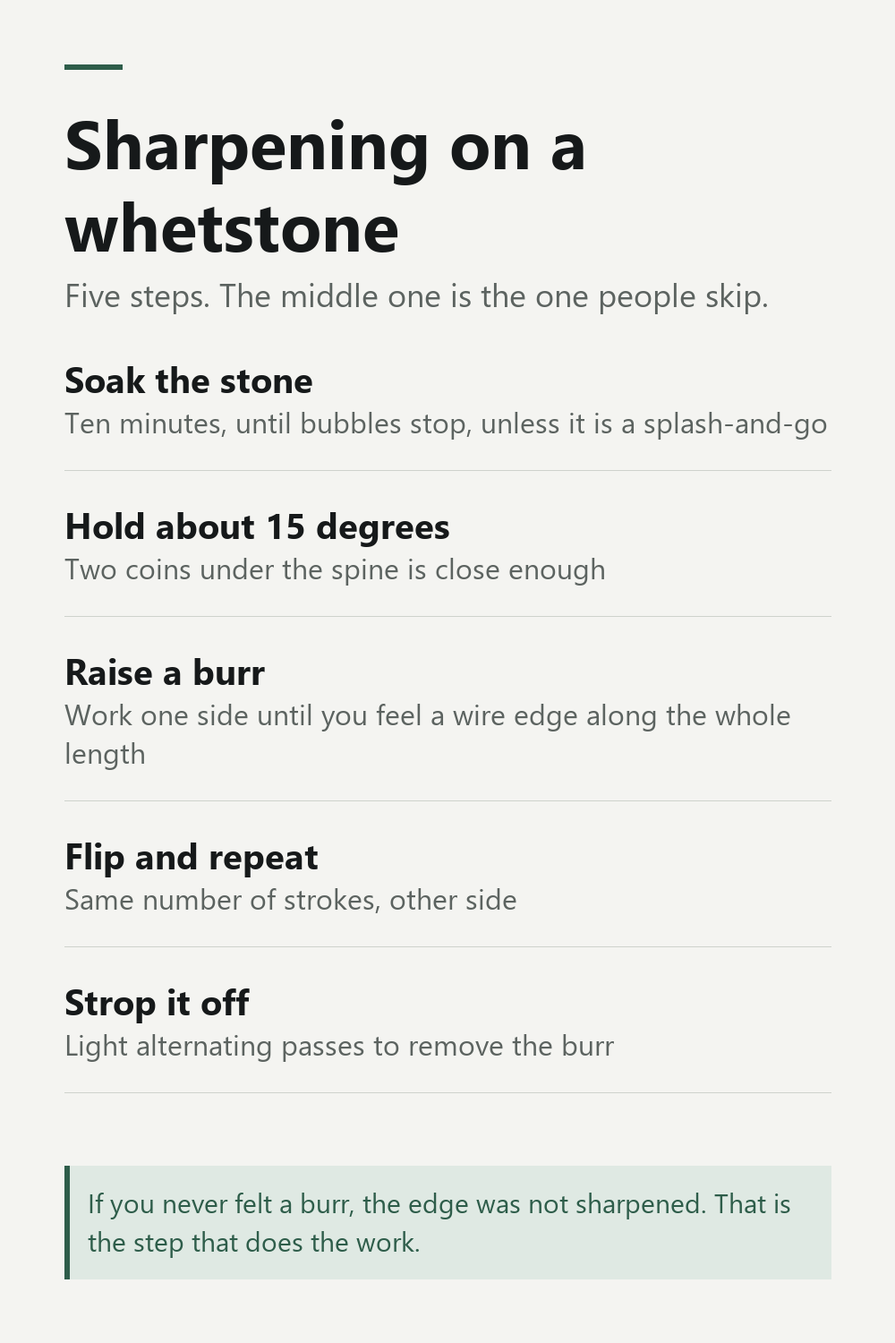
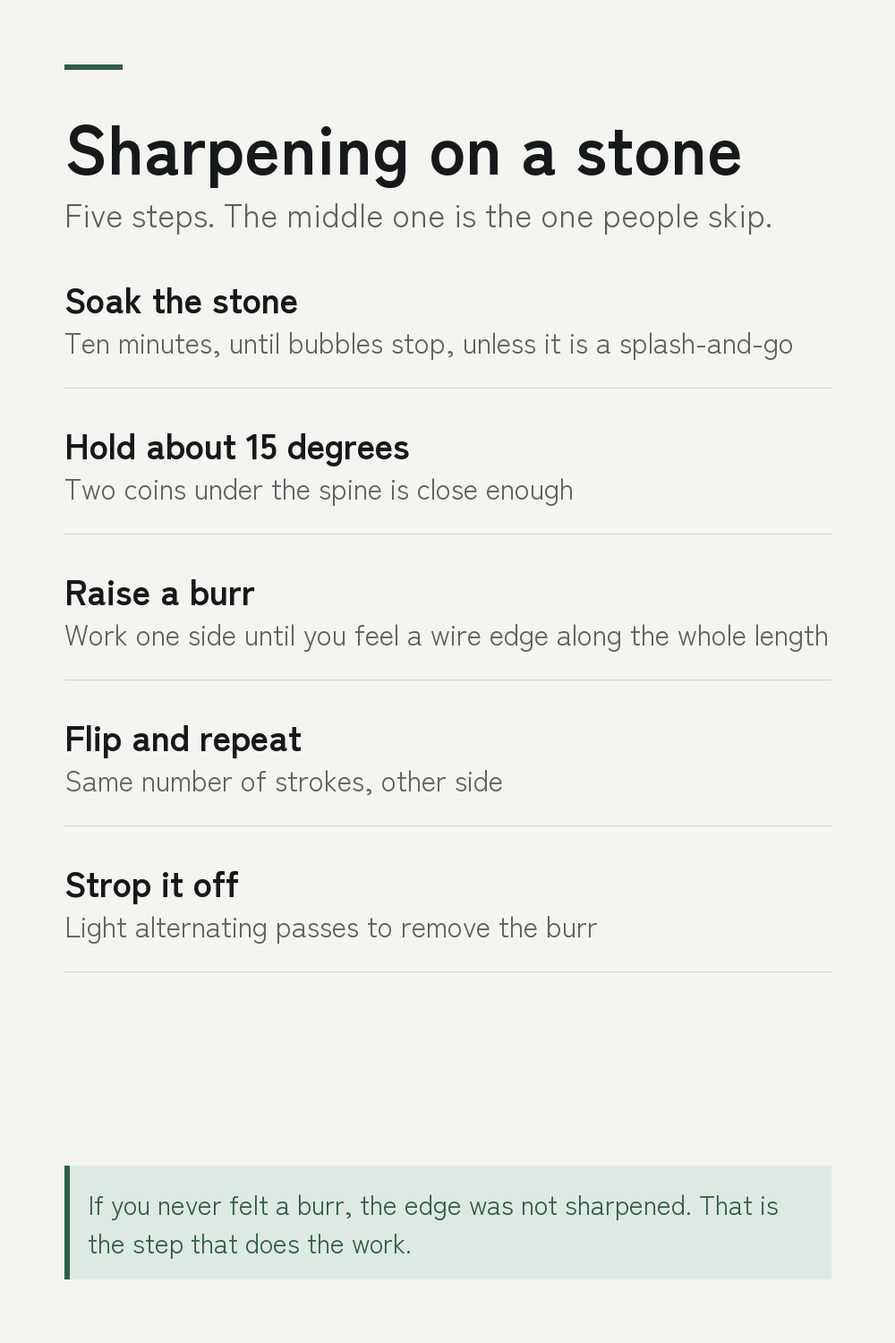
Photo cards for tea, new typefaces, shorter titles

diff --git a/knives/index.html b/knives/index.html
@@ -52,7 +52,7 @@ nav{margin:0 0 4px;font-size:14px}
 <p class="lead">A Japanese knife is described by its shape, its steel, how it was forged and where. Each of those changes how it cuts and how much care it needs. Here is what the words on the box mean.</p>
 </header>
 
-<h2 id="knife-shapes">Which Japanese knife shape?</h2>
+<h2 id="knife-shapes">Which knife shape?</h2>
 <p class="sub">Four shapes cover almost every home kitchen.</p>
 <div class="tw"><table><thead><tr><th>Santoku<span class="ja">三徳</span></th><th>Gyuto<span class="ja">牛刀</span></th><th>Nakiri<span class="ja">菜切</span></th><th>Petty<span class="ja">ペティ</span></th></tr></thead><tbody><tr><td>165-180mm</td><td>210-240mm</td><td>165-180mm</td><td>120-150mm</td></tr><tr><td>Flat-ish edge</td><td>Curved belly</td><td>Straight edge</td><td>Small</td></tr><tr><td>Push cuts</td><td>Rocking and slicing</td><td>Straight down</td><td>In-hand work</td></tr><tr><td>The default first knife</td><td>Japanese take on a chef knife</td><td>Vegetables only</td><td>The one you reach for most</td></tr></tbody></table></div>
 <p class="note">Santoku and gyuto overlap. Pick by how you cut, not by what is on sale.</p>
@@ -60,7 +60,7 @@ nav{margin:0 0 4px;font-size:14px}
 <p class="sub">Both are made in one place. The difference is what was added.</p>
 <div class="tw"><table><thead><tr><th>Shirogami<span class="ja">白紙</span></th><th>Aogami<span class="ja">青紙</span></th><th>Ginsan<span class="ja">銀紙三号</span></th><th>VG10</th></tr></thead><tbody><tr><td>Plain carbon steel</td><td>Chromium and tungsten added</td><td>Stainless</td><td>Stainless</td></tr><tr><td>Takes the keenest edge</td><td>Holds an edge longer</td><td>Close to carbon feel</td><td>Very common</td></tr><tr><td>Dulls sooner</td><td>Harder to sharpen</td><td>Low maintenance</td><td>Easy to live with</td></tr><tr><td>Rusts readily</td><td>Still rusts</td><td>Good compromise</td><td>Widely available</td></tr></tbody></table></div>
 <p class="note">All shirogami and aogami bar stock comes from Proterial&#x27;s Yasugi works in Shimane.</p>
-<h2 id="knife-regions">Where Japanese knives are made</h2>
+<h2 id="knife-regions">Where knives are made</h2>
 <p class="sub">The town on the box tells you how it was built.</p>
 <dl class="rows"><div><dt>Sakai 堺 (Osaka)</dt><dd>Forging, sharpening and handles done by separate specialists</dd></div><div><dt>Seki 関 (Gifu)</dt><dd>Large-scale production, stainless, consistent</dd></div><div><dt>Sanjo / Tsubame 三条・燕</dt><dd>Niigata metalworking district, many small smiths</dd></div><div><dt>Echizen 越前 (Fukui)</dt><dd>Hand-forged tradition, over 700 years</dd></div><div><dt>Tosa 土佐 (Kochi)</dt><dd>Free-forged, rustic finish, farm-tool roots</dd></div><div><dt>Miki 三木 (Hyogo)</dt><dd>Long-established tool and blade town</dd></div></dl>
 <p class="note">Sakai splits the work between craftsmen. That is why one knife carries several names.</p>
@@ -72,15 +72,15 @@ nav{margin:0 0 4px;font-size:14px}
 <p class="sub">Most people buy the wrong one first.</p>
 <dl class="rows"><div><dt>200-600 grit 荒砥</dt><dd>Repair chips, reset a bevel. Rarely needed</dd></div><div><dt>800-1200 grit 中砥</dt><dd>The one to buy first. Actual sharpening happens here</dd></div><div><dt>3000-6000 grit 仕上砥</dt><dd>Refines the edge. Optional for home use</dd></div><div><dt>8000 grit and up</dt><dd>Polishing. Diminishing returns for kitchen work</dd></div></dl>
 <p class="note">One 1,000-grit stone and a flattening plate will out-perform a four-stone set you never use.</p>
-<h2 id="knife-care">Carbon steel, without the rust</h2>
+<h2 id="knife-care">Carbon steel without rust</h2>
 <p class="sub">Five habits. That is the whole maintenance routine.</p>
 <dl class="rows"><div><dt>Wipe while you work</dt><dd>Acidic food marks carbon steel in minutes</dd></div><div><dt>Hand wash only</dt><dd>A dishwasher will ruin the edge and the handle</dd></div><div><dt>Dry immediately</dt><dd>Do not leave it on the rack</dd></div><div><dt>Wood or plastic board</dt><dd>Glass and stone destroy the edge</dd></div><div><dt>Let the patina form</dt><dd>The grey film is protective, not damage</dd></div></dl>
 <p class="note">A blue-black patina is what a used carbon knife is supposed to look like.</p>
-<h2 id="knife-first-buy">Buying your first Japanese knife</h2>
+<h2 id="knife-first-buy">Your first Japanese knife</h2>
 <p class="sub">Five decisions, in the order they actually matter.</p>
 <dl class="rows"><div><dt>Shape</dt><dd>Santoku or gyuto. Everything else is a second knife</dd></div><div><dt>Length</dt><dd>180mm santoku or 210mm gyuto suits most home kitchens</dd></div><div><dt>Steel</dt><dd>Stainless unless you want to wipe the blade as you cook</dd></div><div><dt>Bevel</dt><dd>Double bevel. Single bevel is a specialist tool</dd></div><div><dt>Handle</dt><dd>Japanese handles are lighter and easy to replace</dd></div></dl>
 <p class="note">Spending more on a shape you will not use is the most common first mistake.</p>
-<h2 id="knife-handles">Japanese handle or Western handle?</h2>
+<h2 id="knife-handles">Wa handle or yo handle?</h2>
 <p class="sub">This changes the balance more than the price does.</p>
 <div class="tw"><table><thead><tr><th>Wa handle<span class="ja">和柄</span></th><th>Yo handle<span class="ja">洋柄</span></th></tr></thead><tbody><tr><td>Wood, friction fit</td><td>Riveted to a full tang</td></tr><tr><td>Light, blade-forward</td><td>Heavier, balanced at the bolster</td></tr><tr><td>Octagonal or D-shaped</td><td>Contoured</td></tr><tr><td>Replaceable at home</td><td>Not user-replaceable</td></tr></tbody></table></div>
 <p class="note">A wa handle can be swapped when it wears out. That is why old knives keep working.</p>
@@ -88,7 +88,7 @@ nav{margin:0 0 4px;font-size:14px}
 <p class="sub">Three words on a knife box that describe how it was built.</p>
 <div class="tw"><table><thead><tr><th>Kasumi<span class="ja">霞</span></th><th>San-mai<span class="ja">三枚</span></th><th>Honyaki<span class="ja">本焼</span></th></tr></thead><tbody><tr><td>Hard steel forged to soft iron</td><td>Hard core between two soft sides</td><td>One steel throughout</td></tr><tr><td>Two layers</td><td>Three layers</td><td>Differentially hardened</td></tr><tr><td>Easier to sharpen</td><td>Core protected</td><td>Hard, brittle, costly</td></tr><tr><td>The common construction</td><td>Most stainless clad knives</td><td>For specialists</td></tr></tbody></table></div>
 <p class="note">Damascus is a surface pattern on a clad blade. It describes the look, not the performance.</p>
-<h2 id="knife-sharpen-steps">Sharpening on a whetstone</h2>
+<h2 id="knife-sharpen-steps">Sharpening on a stone</h2>
 <p class="sub">Five steps. The middle one is the one people skip.</p>
 <dl class="rows"><div><dt>Soak the stone</dt><dd>Ten minutes, until bubbles stop, unless it is a splash-and-go</dd></div><div><dt>Hold about 15 degrees</dt><dd>Two coins under the spine is close enough</dd></div><div><dt>Raise a burr</dt><dd>Work one side until you feel a wire edge along the whole length</dd></div><div><dt>Flip and repeat</dt><dd>Same number of strokes, other side</dd></div><div><dt>Strop it off</dt><dd>Light alternating passes to remove the burr</dd></div></dl>
 <p class="note">If you never felt a burr, the edge was not sharpened. That is the step that does the work.</p>

diff --git a/tea/index.html b/tea/index.html
@@ -80,23 +80,23 @@ nav{margin:0 0 4px;font-size:14px}
 <p class="sub">There is no legal grading system. These words still mean something.</p>
 <dl class="rows"><div><dt>Ceremonial grade</dt><dd>Marketing term, not a standard</dd></div><div><dt>Culinary grade</dt><dd>Also marketing. Usually later harvest</dd></div><div><dt>First harvest 一番茶</dt><dd>A real, checkable claim</dd></div><div><dt>Stone-ground 石臼挽き</dt><dd>Slow, low heat. A real distinction</dd></div><div><dt>Single cultivar</dt><dd>Uncommon and deliberate</dd></div><div><dt>Producer named</dt><dd>The most useful signal on the bag</dd></div></dl>
 <p class="note">Ask what harvest and who ground it. Grade names are not regulated.</p>
-<h2 id="tea-first-buy">Buying Japanese tea for the first time</h2>
+<h2 id="tea-first-buy">Buying Japanese tea</h2>
 <p class="sub">Five things on the bag that actually matter.</p>
 <dl class="rows"><div><dt>Harvest year</dt><dd>Green tea does not improve with age. Look for the most recent crop</dd></div><div><dt>Region</dt><dd>Named region means someone chose it. Blends often say nothing</dd></div><div><dt>Type</dt><dd>Sencha for everyday, kabusecha to try something sweeter</dd></div><div><dt>Steaming</dt><dd>Fukamushi is more forgiving if you brew casually</dd></div><div><dt>Size</dt><dd>Buy small. Once opened it fades in weeks, not months</dd></div></dl>
 <p class="note">The most common mistake is buying too much of one tea and drinking it slowly.</p>
-<h2 id="tea-storage">How to keep green tea fresh</h2>
+<h2 id="tea-storage">Keeping green tea fresh</h2>
 <p class="sub">Four things spoil it, and one of them is your fridge.</p>
 <dl class="rows"><div><dt>Air</dt><dd>Oxidation flattens the aroma. Keep it sealed and squeeze the air out</dd></div><div><dt>Light</dt><dd>Use an opaque container, not a clear jar on the counter</dd></div><div><dt>Heat</dt><dd>Store cool, away from the hob</dd></div><div><dt>Smell</dt><dd>Tea absorbs odours. Never keep it next to coffee or spices</dd></div><div><dt>The fridge</dt><dd>Only unopened, and let it reach room temperature before opening</dd></div></dl>
 <p class="note">Condensation on cold leaves is what ruins refrigerated tea, not the cold itself.</p>
-<h2 id="tea-ratio">How much tea, how much water</h2>
+<h2 id="tea-ratio">Tea to water ratios</h2>
 <p class="sub">Rough starting points, then adjust to taste.</p>
 <dl class="rows"><div><dt>Sencha 煎茶</dt><dd>About 5g to 200ml, around 60 seconds</dd></div><div><dt>Gyokuro 玉露</dt><dd>About 10g to 100ml, around 2 minutes, cooler water</dd></div><div><dt>Matcha 抹茶</dt><dd>About 2g to 70ml, whisked, not steeped</dd></div><div><dt>Hojicha ほうじ茶</dt><dd>About 6g to 300ml, around 30 seconds</dd></div><div><dt>Second steep</dt><dd>Shorter, not longer. The leaf is already open</dd></div></dl>
 <p class="note">Japanese tea is brewed short and strong, then steeped again. It is not a one-cup leaf.</p>
-<h2 id="tea-roasted">The three easy Japanese teas</h2>
+<h2 id="tea-roasted">Three easy Japanese teas</h2>
 <p class="sub">Low caffeine, forgiving, hard to brew badly.</p>
 <div class="tw"><table><thead><tr><th>Hojicha<span class="ja">ほうじ茶</span></th><th>Genmaicha<span class="ja">玄米茶</span></th><th>Bancha<span class="ja">番茶</span></th></tr></thead><tbody><tr><td>Roasted leaf</td><td>Tea with roasted rice</td><td>Later, coarser leaf</td></tr><tr><td>Toasty, caramel</td><td>Savoury, nutty</td><td>Mild, plain</td></tr><tr><td>Low caffeine</td><td>Diluted caffeine</td><td>Low caffeine</td></tr><tr><td>Good after dinner</td><td>Good with food</td><td>Everyday drinking</td></tr></tbody></table></div>
 <p class="note">All three take boiling water. If you have ruined sencha before, start here.</p>
-<h2 id="tea-caffeine">Which Japanese tea has the most caffeine</h2>
+<h2 id="tea-caffeine">Caffeine, tea by tea</h2>
 <p class="sub">Shading raises it. Roasting lowers it.</p>
 <dl class="rows"><div><dt>Matcha 抹茶</dt><dd>Highest — you drink the whole leaf, not an infusion</dd></div><div><dt>Gyokuro 玉露</dt><dd>High — shading increases caffeine along with amino acids</dd></div><div><dt>Sencha 煎茶</dt><dd>Moderate — the everyday middle</dd></div><div><dt>Bancha 番茶</dt><dd>Lower — older, coarser leaf</dd></div><div><dt>Hojicha ほうじ茶</dt><dd>Lowest — roasting drives caffeine off</dd></div></dl>
 <p class="note">Cooler water extracts less caffeine as well as less bitterness. Two problems, one fix.</p>

diff --git a/tea/tea-roasted.html b/tea/tea-roasted.html
@@ -4,7 +4,7 @@
 <meta charset="utf-8">
 <meta name="p:domain_verify" content="e2b67e06049e9165b76feeefe1a7c023"/>
 <meta name="viewport" content="width=device-width,initial-scale=1">
-<title>The three easy Japanese teas - Japan Kitchen Notes</title>
+<title>Three easy Japanese teas - Japan Kitchen Notes</title>
 <meta name="description" content="Low caffeine, forgiving, hard to brew badly.">
 <style>
 :root{--bg:#F4F4F1;--ink:#16191A;--mid:#5C6360;--soft:#8C938F;--rule:#CED2CC;
@@ -48,11 +48,11 @@ nav{margin:0 0 4px;font-size:14px}
 <body><div class="wrap">
 <header>
 <nav><a href="../">Japan Kitchen Notes</a></nav>
-<h1>The three easy Japanese teas</h1>
+<h1>Three easy Japanese teas</h1>
 <p class="lead">Low caffeine, forgiving, hard to brew badly.</p>
 </header>
 <div class="buy"><h3>Where to buy</h3><ul><li><a href="https://elevatebrandsopcollc.sjv.io/c/7692800/2847136/28635" rel="nofollow sponsored noopener">Encha - organic single-origin Uji matcha</a> - first-harvest, stone-ground, direct from the farm in Uji. 10% off site wide with code EN10OFF</li></ul><p style='margin:10px 0 0;font-size:14px'>These are affiliate links. If you buy through one, a commission may be paid at no extra cost to you.</p></div>
-<h2 id="tea-roasted">The three easy Japanese teas</h2>
+<h2 id="tea-roasted">Three easy Japanese teas</h2>
 <p class="sub">Low caffeine, forgiving, hard to brew badly.</p>
 <div class="tw"><table><thead><tr><th>Hojicha<span class="ja">ほうじ茶</span></th><th>Genmaicha<span class="ja">玄米茶</span></th><th>Bancha<span class="ja">番茶</span></th></tr></thead><tbody><tr><td>Roasted leaf</td><td>Tea with roasted rice</td><td>Later, coarser leaf</td></tr><tr><td>Toasty, caramel</td><td>Savoury, nutty</td><td>Mild, plain</td></tr><tr><td>Low caffeine</td><td>Diluted caffeine</td><td>Low caffeine</td></tr><tr><td>Good after dinner</td><td>Good with food</td><td>Everyday drinking</td></tr></tbody></table></div>
 <p class="note">All three take boiling water. If you have ruined sencha before, start here.</p>

diff --git a/tea/tea-first-buy.html b/tea/tea-first-buy.html
@@ -4,7 +4,7 @@
 <meta charset="utf-8">
 <meta name="p:domain_verify" content="e2b67e06049e9165b76feeefe1a7c023"/>
 <meta name="viewport" content="width=device-width,initial-scale=1">
-<title>Buying Japanese tea for the first time - Japan Kitchen Notes</title>
+<title>Buying Japanese tea - Japan Kitchen Notes</title>
 <meta name="description" content="Five things on the bag that actually matter.">
 <style>
 :root{--bg:#F4F4F1;--ink:#16191A;--mid:#5C6360;--soft:#8C938F;--rule:#CED2CC;
@@ -48,11 +48,11 @@ nav{margin:0 0 4px;font-size:14px}
 <body><div class="wrap">
 <header>
 <nav><a href="../">Japan Kitchen Notes</a></nav>
-<h1>Buying Japanese tea for the first time</h1>
+<h1>Buying Japanese tea</h1>
 <p class="lead">Five things on the bag that actually matter.</p>
 </header>
 <div class="buy"><h3>Where to buy</h3><ul><li><a href="https://elevatebrandsopcollc.sjv.io/c/7692800/2847136/28635" rel="nofollow sponsored noopener">Encha - organic single-origin Uji matcha</a> - first-harvest, stone-ground, direct from the farm in Uji. 10% off site wide with code EN10OFF</li></ul><p style='margin:10px 0 0;font-size:14px'>These are affiliate links. If you buy through one, a commission may be paid at no extra cost to you.</p></div>
-<h2 id="tea-first-buy">Buying Japanese tea for the first time</h2>
+<h2 id="tea-first-buy">Buying Japanese tea</h2>
 <p class="sub">Five things on the bag that actually matter.</p>
 <dl class="rows"><div><dt>Harvest year</dt><dd>Green tea does not improve with age. Look for the most recent crop</dd></div><div><dt>Region</dt><dd>Named region means someone chose it. Blends often say nothing</dd></div><div><dt>Type</dt><dd>Sencha for everyday, kabusecha to try something sweeter</dd></div><div><dt>Steaming</dt><dd>Fukamushi is more forgiving if you brew casually</dd></div><div><dt>Size</dt><dd>Buy small. Once opened it fades in weeks, not months</dd></div></dl>
 <p class="note">The most common mistake is buying too much of one tea and drinking it slowly.</p>

diff --git a/tea/tea-storage.html b/tea/tea-storage.html
@@ -4,7 +4,7 @@
 <meta charset="utf-8">
 <meta name="p:domain_verify" content="e2b67e06049e9165b76feeefe1a7c023"/>
 <meta name="viewport" content="width=device-width,initial-scale=1">
-<title>How to keep green tea fresh - Japan Kitchen Notes</title>
+<title>Keeping green tea fresh - Japan Kitchen Notes</title>
 <meta name="description" content="Four things spoil it, and one of them is your fridge.">
 <style>
 :root{--bg:#F4F4F1;--ink:#16191A;--mid:#5C6360;--soft:#8C938F;--rule:#CED2CC;
@@ -48,11 +48,11 @@ nav{margin:0 0 4px;font-size:14px}
 <body><div class="wrap">
 <header>
 <nav><a href="../">Japan Kitchen Notes</a></nav>
-<h1>How to keep green tea fresh</h1>
+<h1>Keeping green tea fresh</h1>
 <p class="lead">Four things spoil it, and one of them is your fridge.</p>
 </header>
 <div class="buy"><h3>Where to buy</h3><ul><li><a href="https://elevatebrandsopcollc.sjv.io/c/7692800/2847136/28635" rel="nofollow sponsored noopener">Encha - organic single-origin Uji matcha</a> - first-harvest, stone-ground, direct from the farm in Uji. 10% off site wide with code EN10OFF</li></ul><p style='margin:10px 0 0;font-size:14px'>These are affiliate links. If you buy through one, a commission may be paid at no extra cost to you.</p></div>
-<h2 id="tea-storage">How to keep green tea fresh</h2>
+<h2 id="tea-storage">Keeping green tea fresh</h2>
 <p class="sub">Four things spoil it, and one of them is your fridge.</p>
 <dl class="rows"><div><dt>Air</dt><dd>Oxidation flattens the aroma. Keep it sealed and squeeze the air out</dd></div><div><dt>Light</dt><dd>Use an opaque container, not a clear jar on the counter</dd></div><div><dt>Heat</dt><dd>Store cool, away from the hob</dd></div><div><dt>Smell</dt><dd>Tea absorbs odours. Never keep it next to coffee or spices</dd></div><div><dt>The fridge</dt><dd>Only unopened, and let it reach room temperature before opening</dd></div></dl>
 <p class="note">Condensation on cold leaves is what ruins refrigerated tea, not the cold itself.</p>

diff --git a/tea/tea-caffeine.html b/tea/tea-caffeine.html
@@ -4,7 +4,7 @@
 <meta charset="utf-8">
 <meta name="p:domain_verify" content="e2b67e06049e9165b76feeefe1a7c023"/>
 <meta name="viewport" content="width=device-width,initial-scale=1">
-<title>Which Japanese tea has the most caffeine - Japan Kitchen Notes</title>
+<title>Caffeine, tea by tea - Japan Kitchen Notes</title>
 <meta name="description" content="Shading raises it. Roasting lowers it.">
 <style>
 :root{--bg:#F4F4F1;--ink:#16191A;--mid:#5C6360;--soft:#8C938F;--rule:#CED2CC;
@@ -48,11 +48,11 @@ nav{margin:0 0 4px;font-size:14px}
 <body><div class="wrap">
 <header>
 <nav><a href="../">Japan Kitchen Notes</a></nav>
-<h1>Which Japanese tea has the most caffeine</h1>
+<h1>Caffeine, tea by tea</h1>
 <p class="lead">Shading raises it. Roasting lowers it.</p>
 </header>
 <div class="buy"><h3>Where to buy</h3><ul><li><a href="https://elevatebrandsopcollc.sjv.io/c/7692800/2847136/28635" rel="nofollow sponsored noopener">Encha - organic single-origin Uji matcha</a> - first-harvest, stone-ground, direct from the farm in Uji. 10% off site wide with code EN10OFF</li></ul><p style='margin:10px 0 0;font-size:14px'>These are affiliate links. If you buy through one, a commission may be paid at no extra cost to you.</p></div>
-<h2 id="tea-caffeine">Which Japanese tea has the most caffeine</h2>
+<h2 id="tea-caffeine">Caffeine, tea by tea</h2>
 <p class="sub">Shading raises it. Roasting lowers it.</p>
 <dl class="rows"><div><dt>Matcha 抹茶</dt><dd>Highest — you drink the whole leaf, not an infusion</dd></div><div><dt>Gyokuro 玉露</dt><dd>High — shading increases caffeine along with amino acids</dd></div><div><dt>Sencha 煎茶</dt><dd>Moderate — the everyday middle</dd></div><div><dt>Bancha 番茶</dt><dd>Lower — older, coarser leaf</dd></div><div><dt>Hojicha ほうじ茶</dt><dd>Lowest — roasting drives caffeine off</dd></div></dl>
 <p class="note">Cooler water extracts less caffeine as well as less bitterness. Two problems, one fix.</p>

diff --git a/tea/tea-ratio.html b/tea/tea-ratio.html
@@ -4,7 +4,7 @@
 <meta charset="utf-8">
 <meta name="p:domain_verify" content="e2b67e06049e9165b76feeefe1a7c023"/>
 <meta name="viewport" content="width=device-width,initial-scale=1">
-<title>How much tea, how much water - Japan Kitchen Notes</title>
+<title>Tea to water ratios - Japan Kitchen Notes</title>
 <meta name="description" content="Rough starting points, then adjust to taste.">
 <style>
 :root{--bg:#F4F4F1;--ink:#16191A;--mid:#5C6360;--soft:#8C938F;--rule:#CED2CC;
@@ -48,11 +48,11 @@ nav{margin:0 0 4px;font-size:14px}
 <body><div class="wrap">
 <header>
 <nav><a href="../">Japan Kitchen Notes</a></nav>
-<h1>How much tea, how much water</h1>
+<h1>Tea to water ratios</h1>
 <p class="lead">Rough starting points, then adjust to taste.</p>
 </header>
 <div class="buy"><h3>Where to buy</h3><ul><li><a href="https://elevatebrandsopcollc.sjv.io/c/7692800/2847136/28635" rel="nofollow sponsored noopener">Encha - organic single-origin Uji matcha</a> - first-harvest, stone-ground, direct from the farm in Uji. 10% off site wide with code EN10OFF</li></ul><p style='margin:10px 0 0;font-size:14px'>These are affiliate links. If you buy through one, a commission may be paid at no extra cost to you.</p></div>
-<h2 id="tea-ratio">How much tea, how much water</h2>
+<h2 id="tea-ratio">Tea to water ratios</h2>
 <p class="sub">Rough starting points, then adjust to taste.</p>
 <dl class="rows"><div><dt>Sencha 煎茶</dt><dd>About 5g to 200ml, around 60 seconds</dd></div><div><dt>Gyokuro 玉露</dt><dd>About 10g to 100ml, around 2 minutes, cooler water</dd></div><div><dt>Matcha 抹茶</dt><dd>About 2g to 70ml, whisked, not steeped</dd></div><div><dt>Hojicha ほうじ茶</dt><dd>About 6g to 300ml, around 30 seconds</dd></div><div><dt>Second steep</dt><dd>Shorter, not longer. The leaf is already open</dd></div></dl>
 <p class="note">Japanese tea is brewed short and strong, then steeped again. It is not a one-cup leaf.</p>

diff --git a/knives/knife-shapes.html b/knives/knife-shapes.html
@@ -4,7 +4,7 @@
 <meta charset="utf-8">
 <meta name="p:domain_verify" content="e2b67e06049e9165b76feeefe1a7c023"/>
 <meta name="viewport" content="width=device-width,initial-scale=1">
-<title>Which Japanese knife shape? - Japan Kitchen Notes</title>
+<title>Which knife shape? - Japan Kitchen Notes</title>
 <meta name="description" content="Four shapes cover almost every home kitchen.">
 <style>
 :root{--bg:#F4F4F1;--ink:#16191A;--mid:#5C6360;--soft:#8C938F;--rule:#CED2CC;
@@ -48,11 +48,11 @@ nav{margin:0 0 4px;font-size:14px}
 <body><div class="wrap">
 <header>
 <nav><a href="../">Japan Kitchen Notes</a></nav>
-<h1>Which Japanese knife shape?</h1>
+<h1>Which knife shape?</h1>
 <p class="lead">Four shapes cover almost every home kitchen.</p>
 </header>
 
-<h2 id="knife-shapes">Which Japanese knife shape?</h2>
+<h2 id="knife-shapes">Which knife shape?</h2>
 <p class="sub">Four shapes cover almost every home kitchen.</p>
 <div class="tw"><table><thead><tr><th>Santoku<span class="ja">三徳</span></th><th>Gyuto<span class="ja">牛刀</span></th><th>Nakiri<span class="ja">菜切</span></th><th>Petty<span class="ja">ペティ</span></th></tr></thead><tbody><tr><td>165-180mm</td><td>210-240mm</td><td>165-180mm</td><td>120-150mm</td></tr><tr><td>Flat-ish edge</td><td>Curved belly</td><td>Straight edge</td><td>Small</td></tr><tr><td>Push cuts</td><td>Rocking and slicing</td><td>Straight down</td><td>In-hand work</td></tr><tr><td>The default first knife</td><td>Japanese take on a chef knife</td><td>Vegetables only</td><td>The one you reach for most</td></tr></tbody></table></div>
 <p class="note">Santoku and gyuto overlap. Pick by how you cut, not by what is on sale.</p>

diff --git a/knives/knife-regions.html b/knives/knife-regions.html
@@ -4,7 +4,7 @@
 <meta charset="utf-8">
 <meta name="p:domain_verify" content="e2b67e06049e9165b76feeefe1a7c023"/>
 <meta name="viewport" content="width=device-width,initial-scale=1">
-<title>Where Japanese knives are made - Japan Kitchen Notes</title>
+<title>Where knives are made - Japan Kitchen Notes</title>
 <meta name="description" content="The town on the box tells you how it was built.">
 <style>
 :root{--bg:#F4F4F1;--ink:#16191A;--mid:#5C6360;--soft:#8C938F;--rule:#CED2CC;
@@ -48,11 +48,11 @@ nav{margin:0 0 4px;font-size:14px}
 <body><div class="wrap">
 <header>
 <nav><a href="../">Japan Kitchen Notes</a></nav>
-<h1>Where Japanese knives are made</h1>
+<h1>Where knives are made</h1>
 <p class="lead">The town on the box tells you how it was built.</p>
 </header>
 
-<h2 id="knife-regions">Where Japanese knives are made</h2>
+<h2 id="knife-regions">Where knives are made</h2>
 <p class="sub">The town on the box tells you how it was built.</p>
 <dl class="rows"><div><dt>Sakai 堺 (Osaka)</dt><dd>Forging, sharpening and handles done by separate specialists</dd></div><div><dt>Seki 関 (Gifu)</dt><dd>Large-scale production, stainless, consistent</dd></div><div><dt>Sanjo / Tsubame 三条・燕</dt><dd>Niigata metalworking district, many small smiths</dd></div><div><dt>Echizen 越前 (Fukui)</dt><dd>Hand-forged tradition, over 700 years</dd></div><div><dt>Tosa 土佐 (Kochi)</dt><dd>Free-forged, rustic finish, farm-tool roots</dd></div><div><dt>Miki 三木 (Hyogo)</dt><dd>Long-established tool and blade town</dd></div></dl>
 <p class="note">Sakai splits the work between craftsmen. That is why one knife carries several names.</p>

diff --git a/knives/knife-sharpen-steps.html b/knives/knife-sharpen-steps.html
@@ -4,7 +4,7 @@
 <meta charset="utf-8">
 <meta name="p:domain_verify" content="e2b67e06049e9165b76feeefe1a7c023"/>
 <meta name="viewport" content="width=device-width,initial-scale=1">
-<title>Sharpening on a whetstone - Japan Kitchen Notes</title>
+<title>Sharpening on a stone - Japan Kitchen Notes</title>
 <meta name="description" content="Five steps. The middle one is the one people skip.">
 <style>
 :root{--bg:#F4F4F1;--ink:#16191A;--mid:#5C6360;--soft:#8C938F;--rule:#CED2CC;
@@ -48,11 +48,11 @@ nav{margin:0 0 4px;font-size:14px}
 <body><div class="wrap">
 <header>
 <nav><a href="../">Japan Kitchen Notes</a></nav>
-<h1>Sharpening on a whetstone</h1>
+<h1>Sharpening on a stone</h1>
 <p class="lead">Five steps. The middle one is the one people skip.</p>
 </header>
 
-<h2 id="knife-sharpen-steps">Sharpening on a whetstone</h2>
+<h2 id="knife-sharpen-steps">Sharpening on a stone</h2>
 <p class="sub">Five steps. The middle one is the one people skip.</p>
 <dl class="rows"><div><dt>Soak the stone</dt><dd>Ten minutes, until bubbles stop, unless it is a splash-and-go</dd></div><div><dt>Hold about 15 degrees</dt><dd>Two coins under the spine is close enough</dd></div><div><dt>Raise a burr</dt><dd>Work one side until you feel a wire edge along the whole length</dd></div><div><dt>Flip and repeat</dt><dd>Same number of strokes, other side</dd></div><div><dt>Strop it off</dt><dd>Light alternating passes to remove the burr</dd></div></dl>
 <p class="note">If you never felt a burr, the edge was not sharpened. That is the step that does the work.</p>

diff --git a/knives/knife-first-buy.html b/knives/knife-first-buy.html
@@ -4,7 +4,7 @@
 <meta charset="utf-8">
 <meta name="p:domain_verify" content="e2b67e06049e9165b76feeefe1a7c023"/>
 <meta name="viewport" content="width=device-width,initial-scale=1">
-<title>Buying your first Japanese knife - Japan Kitchen Notes</title>
+<title>Your first Japanese knife - Japan Kitchen Notes</title>
 <meta name="description" content="Five decisions, in the order they actually matter.">
 <style>
 :root{--bg:#F4F4F1;--ink:#16191A;--mid:#5C6360;--soft:#8C938F;--rule:#CED2CC;
@@ -48,11 +48,11 @@ nav{margin:0 0 4px;font-size:14px}
 <body><div class="wrap">
 <header>
 <nav><a href="../">Japan Kitchen Notes</a></nav>
-<h1>Buying your first Japanese knife</h1>
+<h1>Your first Japanese knife</h1>
 <p class="lead">Five decisions, in the order they actually matter.</p>
 </header>
 
-<h2 id="knife-first-buy">Buying your first Japanese knife</h2>
+<h2 id="knife-first-buy">Your first Japanese knife</h2>
 <p class="sub">Five decisions, in the order they actually matter.</p>
 <dl class="rows"><div><dt>Shape</dt><dd>Santoku or gyuto. Everything else is a second knife</dd></div><div><dt>Length</dt><dd>180mm santoku or 210mm gyuto suits most home kitchens</dd></div><div><dt>Steel</dt><dd>Stainless unless you want to wipe the blade as you cook</dd></div><div><dt>Bevel</dt><dd>Double bevel. Single bevel is a specialist tool</dd></div><div><dt>Handle</dt><dd>Japanese handles are lighter and easy to replace</dd></div></dl>
 <p class="note">Spending more on a shape you will not use is the most common first mistake.</p>

diff --git a/knives/knife-handles.html b/knives/knife-handles.html
@@ -4,7 +4,7 @@
 <meta charset="utf-8">
 <meta name="p:domain_verify" content="e2b67e06049e9165b76feeefe1a7c023"/>
 <meta name="viewport" content="width=device-width,initial-scale=1">
-<title>Japanese handle or Western handle? - Japan Kitchen Notes</title>
+<title>Wa handle or yo handle? - Japan Kitchen Notes</title>
 <meta name="description" content="This changes the balance more than the price does.">
 <style>
 :root{--bg:#F4F4F1;--ink:#16191A;--mid:#5C6360;--soft:#8C938F;--rule:#CED2CC;
@@ -48,11 +48,11 @@ nav{margin:0 0 4px;font-size:14px}
 <body><div class="wrap">
 <header>
 <nav><a href="../">Japan Kitchen Notes</a></nav>
-<h1>Japanese handle or Western handle?</h1>
+<h1>Wa handle or yo handle?</h1>
 <p class="lead">This changes the balance more than the price does.</p>
 </header>
 
-<h2 id="knife-handles">Japanese handle or Western handle?</h2>
+<h2 id="knife-handles">Wa handle or yo handle?</h2>
 <p class="sub">This changes the balance more than the price does.</p>
 <div class="tw"><table><thead><tr><th>Wa handle<span class="ja">和柄</span></th><th>Yo handle<span class="ja">洋柄</span></th></tr></thead><tbody><tr><td>Wood, friction fit</td><td>Riveted to a full tang</td></tr><tr><td>Light, blade-forward</td><td>Heavier, balanced at the bolster</td></tr><tr><td>Octagonal or D-shaped</td><td>Contoured</td></tr><tr><td>Replaceable at home</td><td>Not user-replaceable</td></tr></tbody></table></div>
 <p class="note">A wa handle can be swapped when it wears out. That is why old knives keep working.</p>
